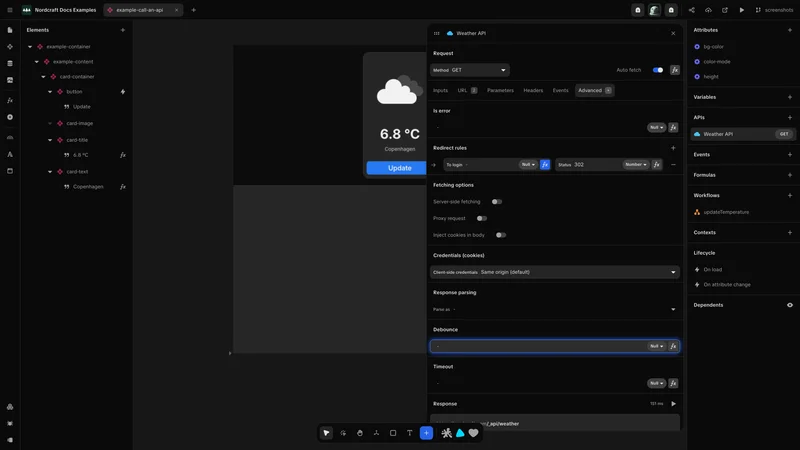
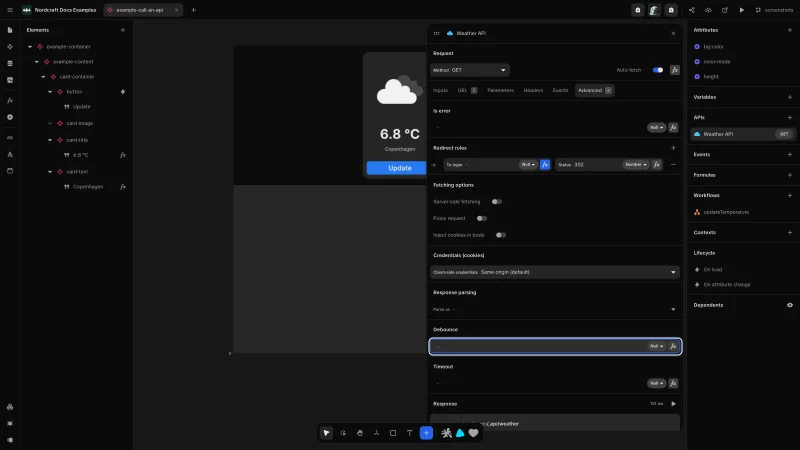
debounce

Changed region(s): [[0.5312, 0.7467, 0.8438, 0.8089]]

diff --git a/docs/connecting-data/advanced-api-features/configure-debounce.screenshot.ts b/docs/connecting-data/advanced-api-features/configure-debounce.screenshot.ts
@@ -10,4 +10,14 @@ export default defineScreenshot({
     await page.locator('[id="api-Weather API-debounce"]').click()
     await page.waitForTimeout(200)
   },
+  annotations: [
+    {
+      type: 'box',
+      x: 429,
+      y: 338,
+      width: 253,
+      height: 17,
+      rx: 4
+    }
+  ],
 })
